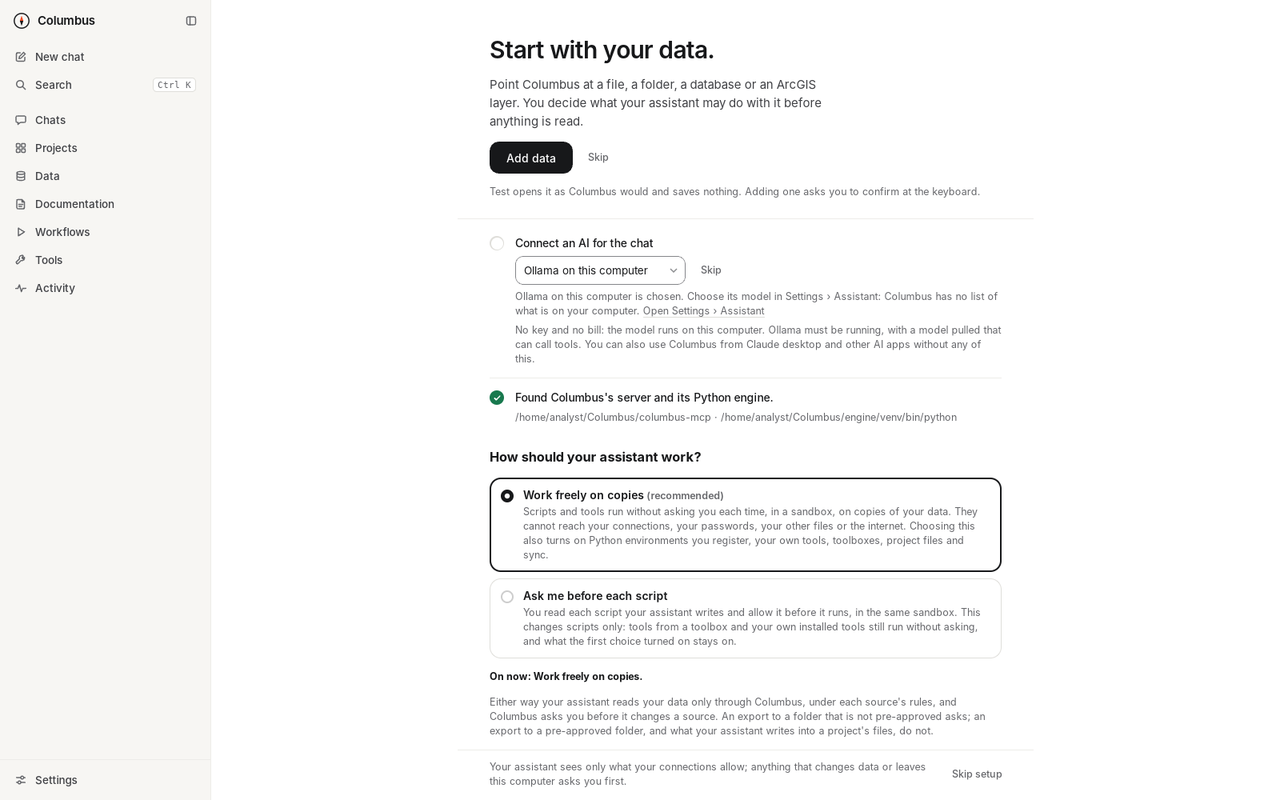
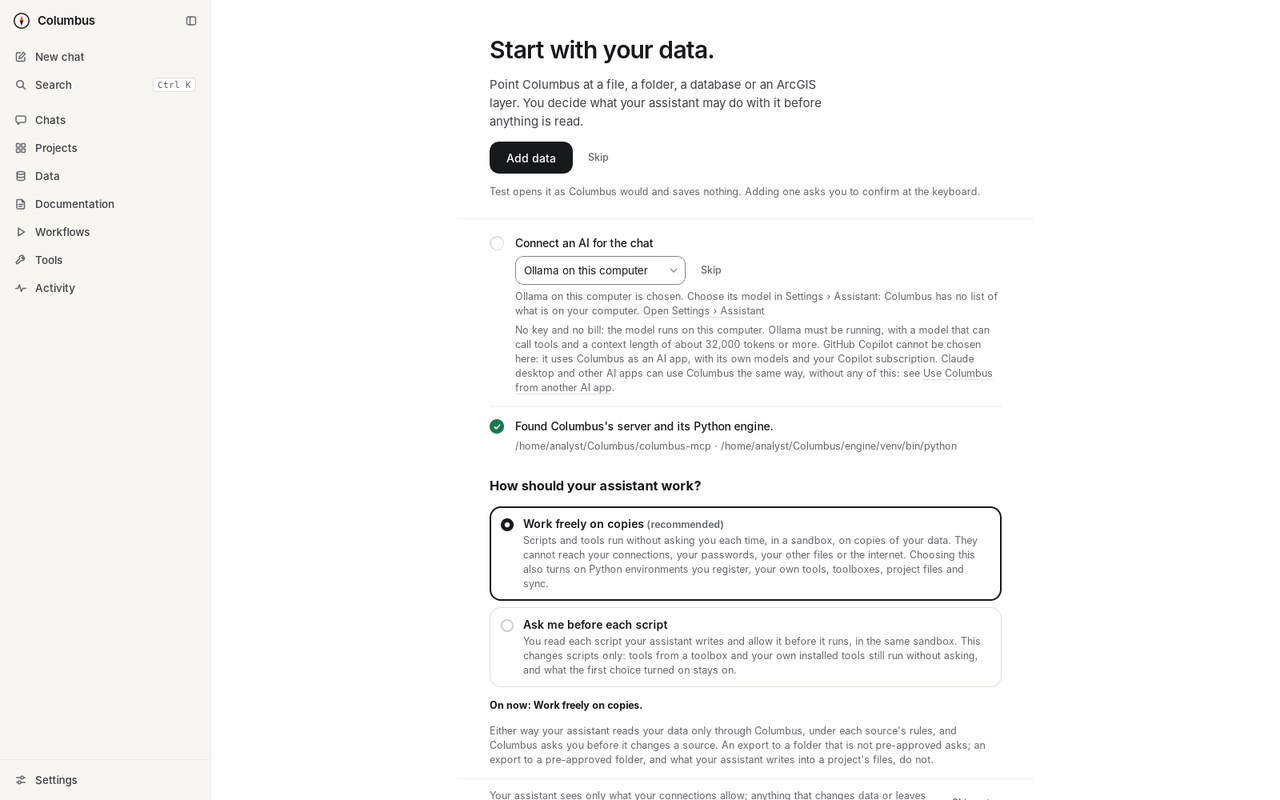
Record the review of any AI and its fixes; docs and two pictures brought up to date
- docs/tasks.json: T-35, T-37, T-38, T-39 and R-105 done with their
  evidence; R-106 and R-107 added and done; T-40 blocked on the one
  re-check, which was not run on the owner's instruction to finish now.
- docs/progress-log.md: the hand-over note, the review's nineteen
  findings and what was done with each, the decisions, the branches.
- Docs: no AI service was contacted in this build; the organization's
  list covers a workflow's AI review; what the key removal does and
  does not do; the local services' needs; what stays on the computer
  in a sync.
- Pictures: the first run and Settings > Assistant, retaken.

Claude-Session: https://claude.ai/code/session_01UjJQzTYxWvqpnBNCrL71n9

Changed region(s): [[0.375, 0.4062, 0.7812, 1.0]]

diff --git a/docs/reference.md b/docs/reference.md
@@ -525,7 +525,7 @@ Every service also takes a model id the person types (letters, digits and `. _ :
 
 **A chat keeps its service.** The service is chosen in Settings › Assistant and in the first run, for new chats. A chat shows its service beside its model, and its transcript records both. Inside a chat the person can change the model, within that service; a service chosen later is for the next chat.
 
-**The organization's say.** `assistant.hosts` ([above](#policy-key-added-with-any-ai-f-19)) is checked in the app's own code in three places: when a service is chosen (the choice is refused and not saved), when a chat starts, and before each message of a running chat. Each refusal is the same sentence, naming the service, its host and the key: "Your organization's rules do not let the app's chat use OpenAI: its address, api.openai.com, is not on the list of AI services allowed (assistant.hosts: …)." Settings › Assistant marks the services that are not allowed, and Settings › Organization rules says the limit in words, or that the person chooses. A policy file that is there but cannot be read allows no service. For a service Columbus knows, the host is the one in Columbus's code.
+**The organization's say.** `assistant.hosts` ([above](#policy-key-added-with-any-ai-f-19)) is checked in the app's own code in three places: when a service is chosen (the choice is refused and not saved), when a chat starts, and before each message of a running chat. Each refusal is the same sentence, naming the service, its host and the key: "Your organization's rules do not let the app's chat use OpenAI: its address, api.openai.com, is not on the list of AI services allowed (assistant.hosts: …)." Settings › Assistant marks the services that are not allowed, and Settings › Organization rules says the limit in words, or that the person chooses. A policy file that is there but cannot be read allows no service. For a service Columbus knows, the host is the one in Columbus's code. A workflow's AI review keeps to the list too: it uses Anthropic, so with a list that does not hold `api.anthropic.com` a review does not run, and a workflow with one is refused when it is proposed ([`tests/workflows.rs`](../crates/gateway/tests/workflows.rs)).
 
 **What is sent to the service.** Every request carries the whole conversation: the app's instructions for the assistant (with the project's instructions and the `working-with-columbus` skill), the descriptions of Columbus's tools, the person's messages, the model's replies and the results of the tools it called, which hold what the assistant read from the person's data, within the policy's limits on rows and fields. Nothing else: no file, no connection setting, no password. With OpenAI's Responses format nothing is kept at the service by Columbus's asking (`store: false`). Choosing a service is choosing who sees those rows; with a service on the person's own computer nothing is sent to an AI company.
 
@@ -539,9 +539,9 @@ Columbus's tool schemas go to Anthropic as its server writes them. For the two O
 
 **What a service sends is untrusted (R-26).** A tool call runs only if it names one of the session's tools and its arguments are one whole JSON object; otherwise it is not run, and the model is told so in the call's result ("a tool call arrived incomplete, so it was not run"; "Columbus has no tool named …"). An empty or repeated call id is replaced by one of Columbus's own, in the call and in its result alike. A reply runs tools only when it is whole: a streamed reply that ends before the service said its end (the last event of a Responses stream; a `finish_reason` or `[DONE]` in Chat Completions) is "the reply was cut off before it ended", a Responses reply whose state is anything but `completed` runs nothing, and neither does a reply cut off at its length limit or by the service's content filter. The key handed back as a model's name in a service's list is left out of the list. The caps hold in every format: 60 steps for a message, 10 tool calls a step, 40,000 characters a tool result, 32 MB a reply, and 1,500,000 input tokens for a message. Tokens are counted as the service reports them (`usage.input_tokens`, or `prompt_tokens`; cached ones count a tenth); where a service reports none, Columbus estimates them from the size of the request (about a token for every three characters) and says so when the cap stops a message.
 
-**No key on a page, in a transcript or in a log.** Some services quote the key they refused. Every text that comes from a service (an error, the model's words, a tool call's name and arguments, and so the code on an approval card) has the key, and any piece of it eight characters or longer, replaced by `[key removed]` before the window is shown it; the window writes the transcript from what it is shown. A tool call whose arguments hold the key is not run, so the key cannot reach the audit log or a file through a tool either.
+**No key on a page, in a transcript or in a log.** Some services quote the key they refused. Every text that comes from a service (an error, the model's words, a tool call's name and arguments, and so the code on an approval card) has the key replaced by `[key removed]` before the window is shown it (and, for a key that looks random, any piece of it eight characters or longer; a key made of ordinary words is removed only whole, so that it does not garble ordinary text); the window writes the transcript from what it is shown. A tool call whose argument values hold the key is not run. This guards against a service that quotes the key back as it was written; it is not a proof against one that sends it in another form (reversed, encoded, or in short pieces).
 
-**Errors**, in plain words that name the service: the key was refused; the key may not use this model; the service does not know this model; nothing is at the address (for an added service); the account has no credit left or reached its spending limit (not tried again); the service is busy (a 429 without a credit code, or a 5xx: asked again up to three times, waiting as long as the service asks, up to a minute; a longer wait is told to the person instead); a redirect; anything else with the service's own message. A request refused with 400 that carried fields the format can do without (the thinking level, the limit on a reply's length, the request for token counts, and for Responses the encrypted reasoning) is tried once more without them (A-11); if that is taken, the chat goes on without them and says so; this happens at most once in a chat.
+**Errors**, in plain words that name the service: the key was refused; the key may not use this model; the service does not know this model; nothing is at the address (for an added service); the account has no credit left or reached its spending limit (not tried again); the service is busy (a 429 without a credit code, or a 5xx: asked again up to three times, waiting as long as the service asks, up to a minute); a redirect; anything else with the service's own message. A request refused with 400 that carried fields the format can do without (the thinking level, the limit on a reply's length, the request for token counts, and for Responses the encrypted reasoning) is tried once more without them (A-11); if that is taken, the chat goes on without them and says so; this happens at most once in a chat.
 
 **Stop.** Stopping while the model is being asked again after a tool step keeps the tool results (their calls stay in the conversation, and a call without its result would be refused by the service); stopping before any reply drops the person's unanswered message, as before.
 
@@ -555,7 +555,7 @@ Columbus's tool schemas go to Anthropic as its server writes them. For the two O
 - An error that Anthropic sends inside a stream keeps its earlier words ("the AI service answered (…)"); elsewhere errors name the service.
 - Small local models often call tools unreliably, and a local server may ignore the limit on a reply's length.
 
-**Honest limits.** Columbus's side of every service except Anthropic was written from that service's published description and its own SDK's source, as read on 2026-11-11, and tested against stand-in services; no key of any service was used. The first chat with a real one is its first meeting with it (H-6). Read from official SDK source: the Responses and Chat Completions shapes (`openai-python`), and Ollama's adapter. Read only through a search tool, and so assumptions: xAI's and Gemini's endpoints, models and limits, the model ids offered, LM Studio and OpenRouter. Assumed without a source: that OpenAI refuses a tool description over 1,024 characters (so they are cut), that every Chat Completions service takes `max_completion_tokens` or answers 400 to it (so it is tried once more without), that Gemini's endpoint takes plain schemas as written here, and that a service's `GET …/models` answers as OpenAI's does. Where a service differs, the chat says what it answered, in plain words; an added service can be added again with another format.
+**Honest limits.** No AI service was contacted while 0.15 was built: every service, Anthropic too, was tested against stand-in services, and no key of any service was used. Columbus's side of the services new in 0.15 was written from each service's published description and its own SDK's source, as read on 2026-11-11; Anthropic's requests are as in 0.14, on the rebuilt engine. The first chat with a real service new in 0.15 is its first meeting with it (H-6). Read from official SDK source: the Responses and Chat Completions shapes (`openai-python`), and Ollama's adapter. Read only through a search tool, and so assumptions: xAI's and Gemini's endpoints, models and limits, the model ids offered, LM Studio and OpenRouter. Assumed without a source: that OpenAI refuses a tool description over 1,024 characters (so they are cut), that every Chat Completions service takes `max_completion_tokens` or answers 400 to it (so it is tried once more without), that Gemini's endpoint takes plain schemas as written here, and that a service's `GET …/models` answers as OpenAI's does. Where a service differs, the chat says what it answered, in plain words; an added service can be added again with another format.
 
 **Not built**, and why (D-22): a Copilot subscription inside the app's own chat (it would mean shipping and running GitHub's own agent program, outside the project's licence list and outside Columbus's boundary; Copilot works as an AI app connected to Columbus); GitHub Models (shut down by GitHub on 2026-07-30); another service for a workflow's AI review, which stays on Anthropic with the Anthropic key (the approved workflow format names it); signing in with an account instead of a key; changing the service inside a running chat.
 

diff --git a/docs/progress-log.md b/docs/progress-log.md
@@ -143,6 +143,11 @@ Kit version 1.1 · as of 2026-11-08, session S1 not started
 | 2026-11-11 | CI on the merged fixes (7077969): Desktop app (ubuntu-latest) failed in `toolboxes.py`, where the test typed `/usr/bin/env` as "a program in a system folder" and waited for the refusal. CI's Linux runners are now Ubuntu 26.04; the app looks at where a program really is, and the likeliest cause is that `env` there is a link to a file kept in a folder of its own, so the app rightly offered to add it. The test now puts its own program straight into the folder for temporary files, which is a system-kept place on every system. The app is unchanged | The check's intent is unchanged (a program directly in a system-kept folder is refused before anything is asked, with the same words); only the fixture no longer depends on how a distribution packages its tools. Not reproduced here (this machine is Ubuntu 24.04, where `env` is a plain file and the old test passed); the changed test passes here, and CI shows whether the cause was right | Decided |
 | 2026-11-11 | The re-check's finding 1 (the secret scan misses everyday forms) is treated as Fix now, though the re-checker scored it 24: `docs/final-review.md` puts "data lost or leaked" at severity 10, and a database password sent to a Git server or an AI service is that, so severity 9 or more with likelihood 3. It becomes R-105 with the cheap neighbours (findings 3, 4, 5, 8 in part), built by a fresh builder; a fresh subagent then tries the scan again with forms of its own | The rule for Fix now is the review's, not the reviewer's arithmetic; the one re-check the rules ask for has been spent on R-103 and R-104, so R-105 gets a narrow check of its own rather than none | Decided |
 | 2026-11-11 | Pull request 26 is merged with R-105 still open: it holds the review's fixes as re-checked, and nothing is published. R-105 follows in a small pull request of its own; the work on D-22 after that | Main gains the fixes now; a later stop of this session leaves a clean, green state | Decided |
+| 2026-11-11 | Pull request 26 merged as f8eff45 after all 14 CI jobs passed on cc4b61e (run 43069750717); `main` green afterwards (run 43072793677). Pull request 28 holds D-22, R-105 to R-107 and their records | D-8 | Done |
+| 2026-11-11 | D-22 as built (the builder's choices, from its report): `Chat::start` stays Anthropic so that the six earlier tests are untouched, and the app uses `start_with`; one second try per chat without the optional fields; a model change in the Responses format drops reasoning items; an added service's address, format and key header are recorded in the credential store and checked at each use, so on Linux no service can be added; an unreadable policy file allows no service; a service on this computer is never reached through a proxy; the streaming idle limit is 600 seconds for the new formats | Each keeps a promise of D-22 (R-25, R-26) or keeps Anthropic's path as it was | Decided |
+| 2026-11-11 | The owner asked on 2026-11-11, while the review's fixes were being built, to finish now and drop what is not needed. Dropped: the independent re-check of R-105's second part, R-106 and R-107 (T-40 is marked blocked, not done); plainer tool schemas on the second try; the Mac keychain wording; the separate words pass on the docs by the builder (done by the coordinator instead). Kept: every fix that was complete and tested, CI on three systems before the merge, and the records | The owner's instruction. A Fix-now finding (14) and the security finding (1) were in hand and tested, so they were finished rather than left | Decided by owner |
+| 2026-11-11 | R-106: where the line for a stand-in is drawn means two known costs: a password that is exactly `$` and a name (`$ummer2026`) reads as a variable, and one holding a name in braces as put together from parts. `pwd = "row_widths"` is let through for the name `pwd` only | Applied to every password name, the exemption let the repository's own test password through | Decided |
+| 2026-11-11 | Branches: nothing was deleted. The owner asked for a clean-up; the build session's Git access refuses a push that deletes another branch, and that was not worked around. The lists and one command go to the owner | A refusal that is deliberate is not a blocker to work past | Decided |
 
 ## Change requests
 
@@ -158,6 +163,50 @@ Status: raised, approved, declined, or Sent to Blueprint (touches a one-way door
 ## Handoff notes
 
 Newest first, written as you go. Mark each claim verified (checked this session) or unverified.
+
+### Hand-over: Columbus 0.15.0, part 3 and the addendum (2026-11-11)
+
+Where things stand when this note is written (verified here unless marked):
+
+- **On `main`:** part 3 as planned in `docs/build-brief-3.md` (pull requests 23 to 26) and, once pull request 28 is merged, its addendum (D-22, any AI service) with the fixes of two independent reviews. Version 0.15.0 in the manifests. **Nothing is published** (D-21): the Download link still gives 0.14.0 until the owner asks for a release.
+- **Tasks:** T-26 to T-39 done; R-103 to R-107 done; T-35 done. T-40 is blocked on one thing: the re-check of the last fixes was not run, because the owner asked on 2026-11-11 to finish now and drop what is not needed. T-36 is this hand-over. T-18 and R-102 are as they were (the owner's optional checks; the ArcGIS sign-in route).
+- **What was never tried on the real thing** (the owner's optional checks in `docs/manual-checks.md`): the GeoLibre program (H-3); a real GitHub or Gitea (H-4); arcpy on a real ArcGIS Pro (H-2, named H-5 in brief 3); any AI service in this build, the services new in 0.15 never (H-6); the app's pages on Windows and macOS beyond what CI builds and runs.
+- **Put to the owner in the hand-over message:** publishing 0.15; the branches (below); the app creating the policy file on a new computer; a Copilot subscription inside the app's own chat (needs GitHub's own program, outside the licences of baseline item 5); whether map documents, layer files and batch files should sync after a warning; the repository's About text and social picture (not editable from the build session; `docs/images/social-card.png` still shows the window from before 0.15); a line in `CLAUDE.md` naming `docs/build-brief-3.md` as a source (the build session may not edit that file); the re-check of the last fixes.
+- **Branches (the owner's request of 2026-11-11, checked read-only):** the build session's access does not allow deleting a branch (the attempt on one merged branch was refused and not worked around). 22 branches are fully in `main`; 14 older ones have every commit under a release tag; 5 older ones and `deps/engine-requirements-20261109` hold a few commits found nowhere else; 6 belong to open Dependabot pull requests; `rustgis-pilot` holds 4 commits found nowhere else. The lists are in the hand-over message.
+- **If a later session continues:** start from this note and `docs/tasks.json`. Open ends, none blocking: the re-check of R-106 and R-107; plainer tool schemas on the chat's second try (the likeliest first failure with Google Gemini); the wording when a Mac's keychain prompt is declined; the settings file can move new chats to another service that already has a key (review finding 9); choosing several held files at once in Sync.
+
+### Review of any AI and of the password search (T-40, 2026-11-11)
+
+A fresh subagent that built none of it reviewed pull request 28 at 0059d8f and fixed nothing.
+
+- **Verdict (the reviewer's):** the any-AI part has no Fix-now finding: where a key goes, redirects, the organization's limit, approvals, the caps and Stop held against about 150 runs with its own stand-in services and its own script against the real app. The search for passwords has one Fix-now finding besides the class then being built.
+- **Findings and what was done with each:**
+
+| # | Finding | Label | Done |
+|---|---|---|---|
+| 1 | A key saved for an added service followed an address rewritten in the settings file, once the person re-confirmed as the app told them to | Fix when convenient (20; severity 10) | R-107 |
+| 2 | GitHub Copilot is not where a person looks: no word in the service list or the first run | Fix when convenient (20) | R-107 |
+| 3 | A local service that is not running was blamed on the network | Accept (18) | R-107 |
+| 4 | A key made of words broke ordinary work (pieces removed from text; tool calls refused) | Accept (10) | R-107 |
+| 5 | Docs said more than the code, and implied Anthropic had met the real service in this build | Accept (15) | Reworded |
+| 6 | A workflow's AI review was outside `assistant.hosts` | Accept (12) | R-107 |
+| 7 | After a failed message the next request held two of the person's messages in a row | Accept (8) | R-107 |
+| 8 | What a service sends beyond the reply was kept without limit | Accept (4) | R-107 (caps) |
+| 9 | The settings file can move new chats to another service that already has a key | Accept (6) | Logged |
+| 10 | A slow error body held the chat | Accept (3) | R-107 |
+| 11 | Token counts were added unchecked | Accept (2) | R-107 |
+| 12 | Local models: a model without tools got a refusal with no advice; Ollama ignored the length limit as sent | Accept (16) | R-107 |
+| 13 | On a Mac, declining the keychain prompt reads as something else (read only) | Accept (6) | Dropped on the owner's instruction to finish; logged |
+| 14 | A password that looks like a template passed the search in every form | **Fix now** (30; severity 10) | R-106 |
+| 15 | Other everyday forms missed | Fix when convenient (20) | R-106 (the cheap ones); the rest listed in the reference as not found |
+| 16 | A password handed to a call by its place (the class then being built) | Fix now | R-105, second part |
+| 17 | Batch files, map documents and layer files never sync, with no way round | Accept (16), the owner's call | To the owner in the hand-over |
+| 18 | Names still sent by Sync (`.bak .dmp .pbix .twbx .tfstate .ovpn`, `*.env`) | Accept (12) | R-106 |
+| 19 | False stops older than R-105 | Accept (8) | R-106 (two let through) |
+
+- **Where the first real request to each service is most likely to fail (the reviewer's order):** a local model without tool calling or with a small context; Google Gemini refusing a keyword of the tool schemas (then no chat would work there; plainer schemas on the second try were planned and dropped for time); xAI; OpenAI (the shapes agree with its SDK's types; behaviour rests on assumption); OpenRouter; added services.
+- **Not checked by the review:** anything at run time on Windows or macOS; any real AI service or AI app; a screen reader.
+- **The one re-check of the fixes was not run:** see T-40 in `docs/tasks.json`.
 
 ### Re-check of the review's fixes (2026-11-11)
 

diff --git a/packaging/release-notes.md b/packaging/release-notes.md
@@ -9,7 +9,7 @@ Columbus now looks like the AI apps you know, lets your assistant work freely on
 - **Toolboxes: install tools, don't build them.** **Tools › Add tools** installs GeoLibre: about a thousand open-source terrain, hydrology, raster and vector tools (MIT licence, version 1.8.1, a download of 16 to 19 MB). Columbus never ships it: it is downloaded when you ask, and checked against a SHA-256 pinned in Columbus. Your assistant finds, reads and runs any of its tools, each run in the same sandbox as scripts, on copies, with no approval. Any other command-line program can be added with a small description file, from a folder of its own: its tools can read that folder, and the app says which before you confirm. From a terminal: `columbus-mcp toolbox install geolibre`.
 - **Your assistant and your map.** It can read what your map shows (the area, the layers that are on, the feature you selected), point the map at a result, and take its snapshot of that same view.
 - **Project files.** Each project has a folder for scripts and notes. Your assistant can read and write text files there and run a script from there; you can put your own in. It writes scripts and notes, not data (results leave a chat only through an export), and Columbus does not hand it a file that looks like it holds a password or a key. The project's page lists them.
-- **Sync with GitHub and Gitea.** **Settings › Git servers** connects github.com, a GitHub Enterprise Server, a Gitea or a Forgejo with a token, kept in your computer's credential store. On a project's page: **Link this project**, **Check for changes**, **Sync**. It works through the server's web API, so no Git is needed on your PC and nothing from a repository can run on it. A file changed on both sides is kept twice (keep mine, keep theirs, keep both). The page lists what will go and what will not before anything does. Data files, password and key files, archives, programs and files over 5 MB stay on your computer; text that looks like a password or a token stops the sync; and a file your assistant wrote after reading one of your sources is held back until you choose **Send it anyway** for it.
+- **Sync with GitHub and Gitea.** **Settings › Git servers** connects github.com, a GitHub Enterprise Server, a Gitea or a Forgejo with a token, kept in your computer's credential store. On a project's page: **Link this project**, **Check for changes**, **Sync**. It works through the server's web API, so no Git is needed on your PC and nothing from a repository can run on it. A file changed on both sides is kept twice (keep mine, keep theirs, keep both). The page lists what will go and what will not before anything does. Data files, password and key files, map documents and layer files (they can hold a saved connection), archives, programs and files over 5 MB stay on your computer; text that looks like a password or a token stops the sync (a search that helps, not a proof); and a file your assistant wrote after reading one of your sources is held back until you choose **Send it anyway** for it.
 - **Any AI in the app's chat.** In **Settings › Assistant**, or on the first-run screen, choose the AI service the app's own chat talks to: Anthropic, OpenAI, xAI, Google Gemini or OpenRouter, each with your own key, or a model on your own computer through Ollama or LM Studio, where nothing is sent to an AI company. Any other service that speaks one of three common request formats (Azure OpenAI, Mistral, DeepSeek, Groq, Together, Amazon Bedrock, your organization's own gateway) is added by its address, after Touch ID or Windows Hello. Each service has its own key, kept in your computer's credential store and sent only to that service. A chat shows its service and keeps it; in a chat you change the model. Whatever you choose, what your assistant reads is sent to that service. Other AI apps (Claude desktop, GitHub Copilot, Cursor and others) connect to Columbus as before, and **Settings › Assistant › Use Columbus from another AI app** now shows the file to change and the exact entry for your computer, to copy.
 
 **Needs macOS 15 or later on a Mac** (Apple Silicon). Windows 10 and 11 (64-bit) as before.

diff --git a/SECURITY.md b/SECURITY.md
@@ -38,7 +38,7 @@ The [technical reference](docs/reference.md) says exactly how each rule is enfor
 - **Trusted environments are outside its control.** A script in one can do anything you can.
 - **What your assistant writes may quote what it read.** A script or a note it writes into a project's files can hold values from your data. Sync holds such a file back until you have looked at it and chosen to send it; a file you wrote or renamed yourself is yours to send, and is listed before it goes. The list of data formats and the search for passwords are a help, not a proof: a table saved as a `.txt` or `.json` file is not recognized as data.
 - **A page your assistant writes can carry links.** A `.html` or `.svg` file it writes into a project's files can hold links, and can fetch pictures or scripts from the internet when a browser opens it. Open one as you would a page from anywhere else.
-- **Three parts are not yet tried on the real thing.** The real GeoLibre program was never run while Columbus was built (its first real run is your first install); sync was tested against stand-in servers, never a real GitHub or Gitea; and for the app's own chat, every AI service except Anthropic was built from that service's published description and tested against stand-ins, with no key of any service.
+- **Three parts are not yet tried on the real thing.** The real GeoLibre program was never run while Columbus was built (its first real run is your first install); sync was tested against stand-in servers, never a real GitHub or Gitea; and for the app's own chat, no AI service was contacted while 0.15 was built: every service was tested against stand-ins, with no key of any service, and the services new in 0.15 were built from each one's published description.
 - **Hidden text can mislead the assistant.** Text hidden in data, documents or a tool's output can still steer it. It cannot use that to read beyond a source's rules, to change a source, or to send anything out without you.
 - **The sandbox is the operating system's.** Its known limits on each system are listed in the reference; where it cannot be set up, Columbus refuses to run the code.
 - **On a Mac, a sandboxed script can see how your other programs were started.** macOS's sandbox does not hide the arguments and environment that other running programs of yours were started with, so a script or a tool can read them. Columbus's own passwords (those of your sources and sign-ins) are not exposed this way: they are kept in the Keychain and handed to Columbus's engine directly, never in a program's arguments or environment. A token that another program was started with can be read while that program runs. That includes a key you saved in Columbus for a connected local server that takes it from its environment (its `auth` is of type `secret` with `env`): Columbus puts it there when it starts that server. (The development mode `COLUMBUS_DEV_SECRETS`, which reads passwords from environment variables, is not for real use for this reason among others.)

diff --git a/docs/capabilities.md b/docs/capabilities.md
@@ -29,7 +29,7 @@ What Columbus 0.15.0 does, area by area. Items marked *experimental* work but ha
 | **Toolboxes** | GeoLibre from **Tools › Add tools** or `columbus-mcp toolbox install geolibre`; any command-line program in a folder of its own, with a description file. *The real GeoLibre program was never run while this was built ([manual checks](manual-checks.md), H-3).* Not yet: QGIS as a toolbox, toolbox tools in workflows |
 | **The map** | `map_view`: the assistant reads what your map shows and changes it (layers on and off, the active layer, zoom); `map_snapshot` of that view |
 | **Project files** | `project_files`: the assistant lists, reads and writes text files in its project's folder, and `run_python` runs a script kept there |
-| **Sync** | **Settings › Git servers**, then **Link this project**, **Check for changes** and **Sync** on a project's page. A file changed on both sides is kept twice. Data files, password and key files, archives, programs and files over 5 MB stay on your computer, and a file your assistant wrote after reading one of your sources is held back until you choose **Send it anyway**; the page lists what will go and what will not before anything does. *Tested against stand-in servers only ([manual checks](manual-checks.md), H-4); no server can be connected on Linux yet.* |
+| **Sync** | **Settings › Git servers**, then **Link this project**, **Check for changes** and **Sync** on a project's page. A file changed on both sides is kept twice. Data files, password and key files, map documents and layer files (they can hold a saved connection), archives, programs and files over 5 MB stay on your computer, and a file your assistant wrote after reading one of your sources is held back until you choose **Send it anyway** (in the list, or where the file is shown); the page lists what will go and what will not before anything does. *Tested against stand-in servers only ([manual checks](manual-checks.md), H-4); no server can be connected on Linux yet.* |
 | **Any AI** | **Settings › Assistant**, and the first run: choose the AI service for the app's own chat (Anthropic, OpenAI, xAI, Google Gemini, OpenRouter, or Ollama or LM Studio on your own computer), save its key, and pick a model, type one's id or load the service's own list. **Add another service** by its address, confirmed at the keyboard. **Use Columbus from another AI app** shows the file and the entry for each app, to copy. Policy `assistant.hosts` names the only hosts the chat may use. *No key of any service was used while this was built: every service was tested against stand-ins, and the ones new in 0.15 were built from each service's published description ([manual checks](manual-checks.md), H-6); no key can be saved on Linux yet.* Not yet: a Copilot subscription inside the app's own chat (Copilot works as an AI app connected to Columbus), signing in with an account instead of a key; a workflow's AI review still uses Anthropic |
 
 ## New in 0.14.0

diff --git a/docs/install-macos.md b/docs/install-macos.md
@@ -125,8 +125,8 @@ The app has a chat of its own, and you choose the AI it talks to. Open **Setting
 | xAI (Grok) | console.x.ai | Billed per use |
 | Google Gemini | aistudio.google.com | Billed under the Gemini API's terms |
 | OpenRouter | openrouter.ai | Billed per use. It passes your chat on to the company whose model you pick |
-| Ollama on this computer | No key | No bill. Ollama must be running, with a model pulled that can call tools |
-| LM Studio on this computer | A key only if you turned on its sign-in | No bill. Its local server must be running, with a model loaded that can call tools |
+| Ollama on this computer | No key | No bill. Ollama must be running, with a model pulled that can call tools and a context length of about 32,000 tokens or more |
+| LM Studio on this computer | A key only if you turned on its sign-in | No bill. Its local server must be running, with a model loaded that can call tools and a context length of about 32,000 tokens or more |
 
 With Ollama or LM Studio the model runs on your own Mac, and nothing is sent to an AI company. Small local models often call tools unreliably. **Any other service** that speaks one of three common request formats can be added with **Add another service**: Azure OpenAI, Mistral, DeepSeek, Groq, Together, Amazon Bedrock, or your organization's own gateway. You give it a name, its address, the format and how its key is sent. Adding one asks for Touch ID or your Mac password first, because it changes where your messages, and the rows your assistant reads, are sent.
 

diff --git a/docs/install.md b/docs/install.md
@@ -102,8 +102,8 @@ The app has a chat of its own, and you choose the AI it talks to. Open **Setting
 | xAI (Grok) | console.x.ai | Billed per use |
 | Google Gemini | aistudio.google.com | Billed under the Gemini API's terms |
 | OpenRouter | openrouter.ai | Billed per use. It passes your chat on to the company whose model you pick |
-| Ollama on this computer | No key | No bill. Ollama must be running, with a model pulled that can call tools |
-| LM Studio on this computer | A key only if you turned on its sign-in | No bill. Its local server must be running, with a model loaded that can call tools |
+| Ollama on this computer | No key | No bill. Ollama must be running, with a model pulled that can call tools and a context length of about 32,000 tokens or more |
+| LM Studio on this computer | A key only if you turned on its sign-in | No bill. Its local server must be running, with a model loaded that can call tools and a context length of about 32,000 tokens or more |
 
 With Ollama or LM Studio the model runs on your own PC, and nothing is sent to an AI company. Small local models often call tools unreliably. **Any other service** that speaks one of three common request formats can be added with **Add another service**: Azure OpenAI, Mistral, DeepSeek, Groq, Together, Amazon Bedrock, or your organization's own gateway. You give it a name, its address, the format and how its key is sent. Adding one asks for Windows Hello first, because it changes where your messages, and the rows your assistant reads, are sent.
 
